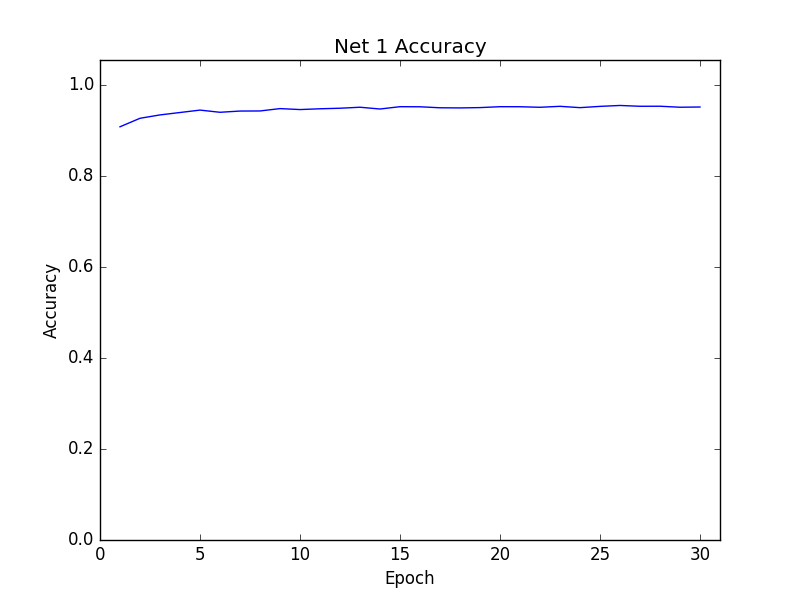
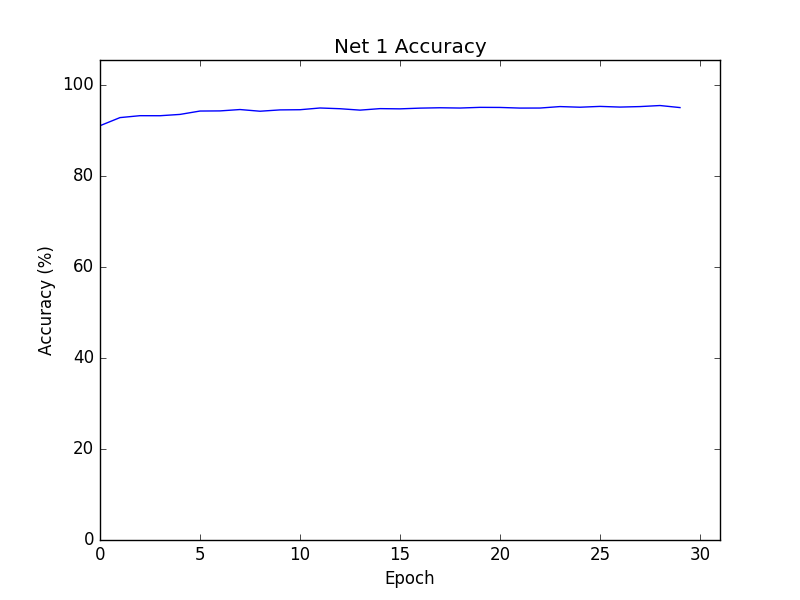
Refresh charts and add them to README

diff --git a/README.md b/README.md
@@ -1,11 +1,16 @@
 # Deep learning practice using the MNIST package
 
+Several example networks trained to recognize MNIST digits. The networks' implementation increases in complexity from 
+Network 1 to the Convolutional Neural Networks. The main difference between the networks is architecture and the cost 
+function.
+
 ## Network 1
 
 ![](net_1_accuracy.png)
 
 Network 1 is trained on the MNIST dataset. The initial accuracy can be attributed to chance since, at the beggining, 
-the weights and biases are randomly sampled from a Gaussian. 
+the weights and biases are randomly sampled from a Gaussian. The chart represents the accuracy on the test dataset, not 
+on the evaluation data set.
 
 The cost used in training the network is a simple cost function - 
 `cost.SimpleCost`. The cost function subtracts the desired prediction vector (vector of size 10 with a 1 in the place 
@@ -38,5 +43,16 @@ Sample prediction vector:
  [0.]
  [0.]]
 ```
+
+## Network 2
+
+![](net_2_accuracy.png)
+
+Network 2 is trained on the MNIST dataset. The cost used in training the network is the Cross-Entropy cost.
+
+# Limitations
+
+- Accuracy should not be the only reported metric; what other metrics could be reported? Cost, etc.
+- The CNN implementation uses Theano; would a TensorFlow implementation improve the results?
 
 ##### Michael Nielsen's [deep learning book](http://neuralnetworksanddeeplearning.com) - a great introduction to deep learning using the MNIST package.
